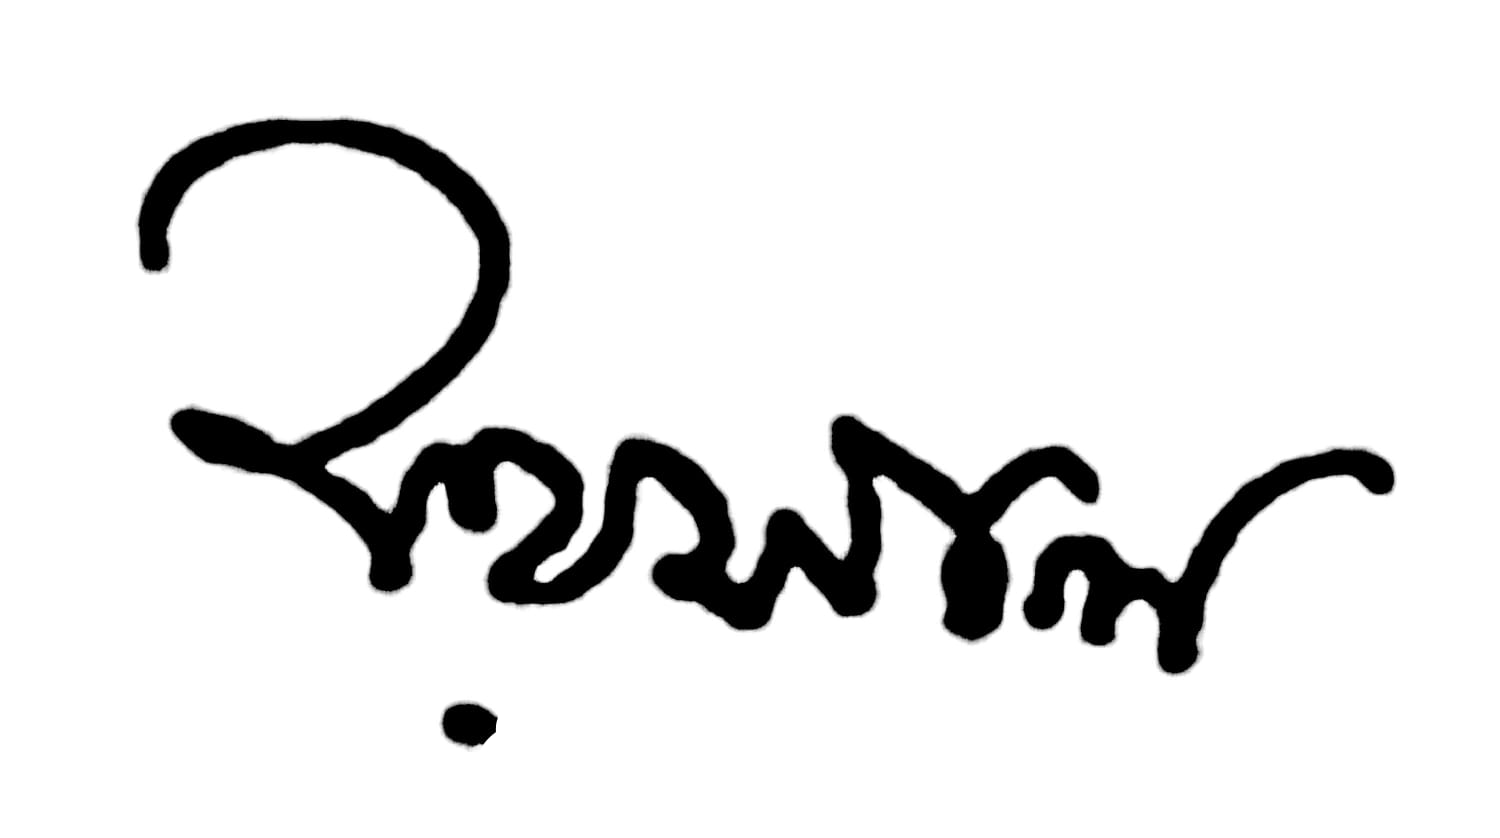
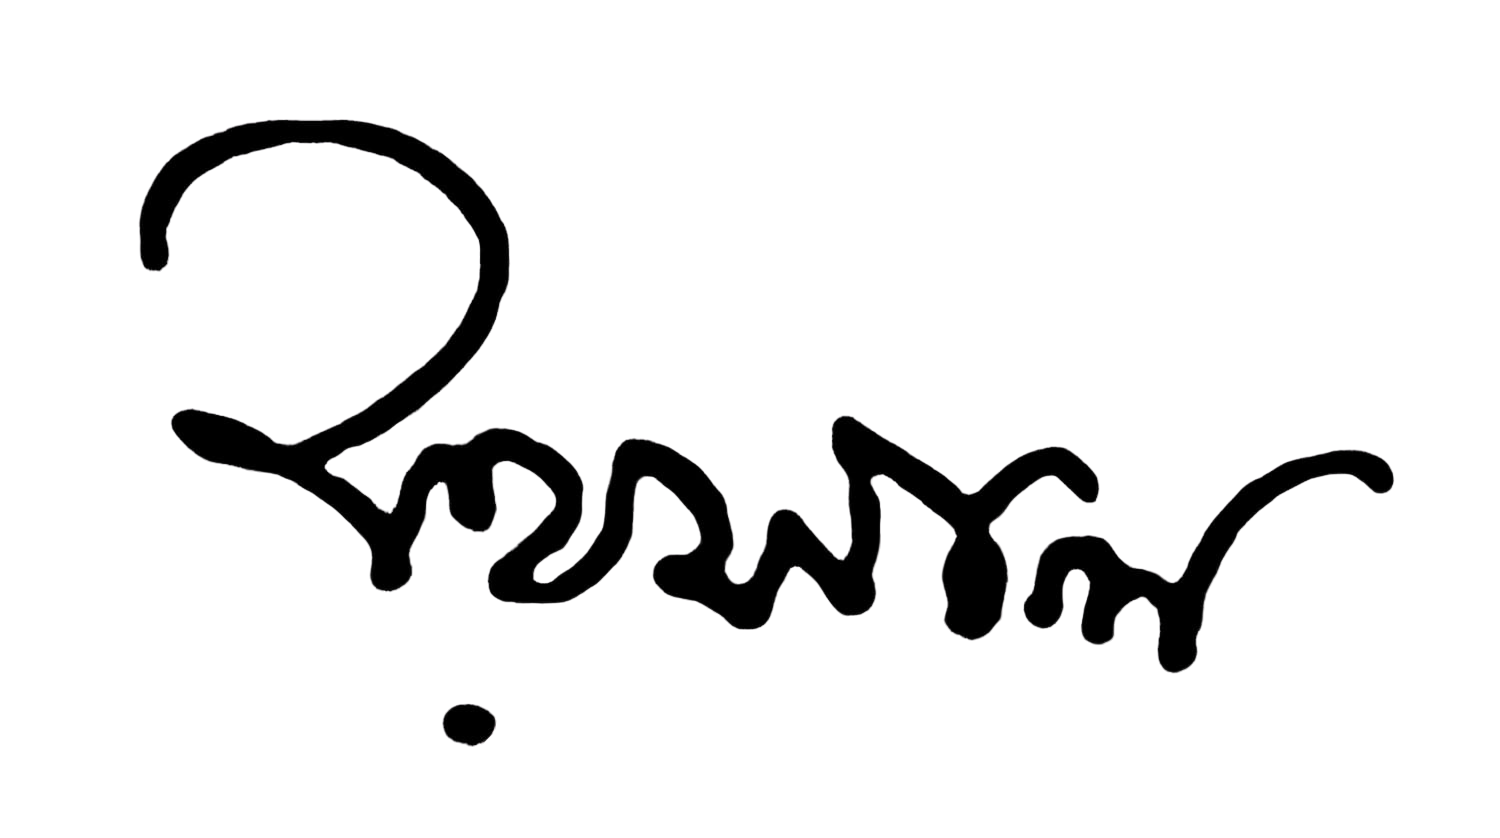
fix: react to print added for prit

diff --git a/src/app/globals.css b/src/app/globals.css
@@ -5,24 +5,6 @@ body {
   print-color-adjust: exact !important;
 }
 
-/* Table styles */
-table {
-  width: 100% !important;
-  border-collapse: collapse !important;
-}
-
-th {
-  background-color: #15803d !important;
-  color: white !important;
-}
-
-td,
-th {
-  border: 1px solid #000 !important;
-  padding: 8px !important;
-  text-align: center !important;
-}
-
 /*  student marksheet print css start  */
 
 @font-face {
@@ -32,128 +14,73 @@ th {
   font-style: normal;
 }
 
-/* @page {
+/* // student marksheet print css start  */
+
+.signature {
+  display: none;
+}
+
+@media print {
+  @page {
     size: A4;
+    margin: 10mm 20mm;
+  }
+  .result-container {
+    width: 100%;
+    height: 100vh;
+    position: relative;
+  }
+  /* print header area */
+  .print-header {
+    margin-bottom: 2rem;
+    border-bottom: 1px solid #000;
+    padding-bottom: 4px;
+    position: relative;
+  }
+
+  .print-header-logo {
+    position: absolute;
+    left: 60px;
+    top: 0;
+  }
+
+  .print-header-logo img {
+    width: 75px;
+    height: 75px;
+  }
+
+  .print-header-content {
+    text-align: center;
+    padding-left: 120px;
+    padding-right: 100px;
+  }
+
+  .print-header h1 {
+    font-size: 24px;
+    font-weight: bold;
+    margin: 1px 0;
+  }
+
+  .print-header h3 {
+    font-size: 18px;
+    font-weight: normal;
     margin: 0;
-  } */
+  }
 
-/* @media print {
-    html, body {
-      margin: 40px;
-      font-family: 'Kalpurush', sans-serif;
-      -webkit-print-color-adjust: exact !important;
-      print-color-adjust: exact !important;
-    }
-
-    
-    /* Student Info Grid Layout */
-/* .student-info-container {
-      display: grid;
-      grid-template-columns: repeat(2, 1fr);
-      gap: 0;
-    } */
-/* 
-    .student-info-item {
-      border-bottom: 1px solid #000;
-    } */
-/* 
-    .student-info-item:last-child {
-      grid-column: span 2;
-    }
-
-    .student-info-row {
-      display: grid;
-      grid-template-columns: 100px 1fr;
-      align-items: center;
-      padding: 8px 0;
-    }
-
-    .print-header {
-      margin-bottom: 2rem;
-      border-bottom: 1px solid #000;
-      padding-bottom: 4px;
-      position: relative;
-    }
-
-    .print-header-logo {
-      position: absolute;
-      left: 83px;
-      top: 0;
-    }
-
-    .print-header-logo img {
-      width: 75px;
-      height: 75px;
-    }
-
-    .print-header-content {
-      text-align: center;
-      padding-left: 120px;
-      padding-right: 100px;
-    }
-
-    .print-header h1 {
-      font-size: 24px;
-      font-weight: bold;
-      margin: 1px 0;
-    }
-
-    .print-header h3 {
-      font-size: 18px;
-      font-weight: normal;
-      margin: 0;
-    }
-
-    .print-header p {
-      font-size: 14px;
-      margin: 0;
-    }
-
-    table {
-      width: 100%;
-      border-collapse: collapse;
-      margin-top: 20px;
-    }
-
-    th {
-      background-color: #15803d !important;
-      color: white !important;
-      padding: 8px;
-      text-align: center;
-      border: 1px solid #000;
-    }
-
-    td {
-      padding: 8px;
-      text-align: center;
-      border: 1px solid #000;
-    }
-
-    .no-print {
-      display: none !important;
-    }
-
-    .print-only {
-      display: block !important;
-    }
-
-    /* Signature styles */
-/* .signature {
-      position: absolute;
-      bottom: 80px;
-      right: 40px;
-      text-align: center;
-    }
-
-    .signature img {
-      width: 120px;
-      height: auto;
-      margin-bottom: 5px;
-    }
-
-    .signature-text {
-      font-size: 14px;
-      margin: 0;
-    } */
+  .print-header p {
+    font-size: 14px;
+    margin: 0;
+  }
+  /* print header area end */
+  .signature {
+    display: flex;
+    flex-direction: column;
+    justify-content: center;
+    align-items: center;
+    position: absolute;
+    bottom: 40px;
+    right: 40px;
+  }
+}
 
 /* // student marksheet print css end  */

diff --git a/src/components/ResultDisplay.tsx b/src/components/ResultDisplay.tsx
@@ -1,6 +1,8 @@
 import Image from 'next/image';
 import { useRef } from 'react';
 
+import '../app/globals.css';
+
 import { PrintButton } from './PrintButton';
 import { MarkSheet } from './result/MarkSheet';
 import { StudentInfo } from './result/StudentInfo';
@@ -16,8 +18,8 @@ export function ResultDisplay({ result, examType }: ResultDisplayProps) {
   const printRef = useRef<HTMLDivElement>(null);
 
   return (
-    <div ref={printRef} className='result-container text-sm'>
-      <div className='print-header print:block'>
+    <div ref={printRef} className='result-container text-sm relative'>
+      <div className='print-header hidden print:block'>
         <div className='print-header-logo'>
           <Image
             src='/images/logo.jpg'
@@ -34,7 +36,7 @@ export function ResultDisplay({ result, examType }: ResultDisplayProps) {
         </div>
       </div>
       <div>
-        <h1 className='exam-name hidden print:block text-xl font-bold text-center mb-1'>
+        <h1 className='exam-name hidden print:block text-xl font-bold text-center mb-3'>
           {examType}
         </h1>
         <h3 className='text-lg font-normal text-center mb-4 '>
@@ -43,15 +45,19 @@ export function ResultDisplay({ result, examType }: ResultDisplayProps) {
       </div>
       <StudentInfo result={result} />
       <MarkSheet result={result} />
-      <div className='signature  print:block'>
+      <div className='signature '>
         <Image
-          src='/images/sign.jpg'
+          src='/images/signature.jpg'
           alt='signature'
-          width={120}
+          width={80}
           height={60}
           priority
+          className='-rotate-[4deg] '
         />
-        <p className='signature-text'>পরীক্ষা নিয়ন্ত্রক</p>
+        <p className='signature-text border-b-[0.1px] mb-1 border-black'>
+          পরীক্ষা নিয়ন্ত্রক
+        </p>
+        <p>(মাওলানা ফয়সাল উমর ফারুক)</p>
       </div>
       <PrintButton printRef={printRef} />
     </div>

diff --git a/src/components/result/MarkSheet.tsx b/src/components/result/MarkSheet.tsx
@@ -5,10 +5,12 @@ import { StudentResult } from '@/types/student';
 export function MarkSheet({ result }: { result: StudentResult }) {
   return (
     <>
-      <h6 className='text-center text-xl font-normal mb-1 mark-sheet-title'>
-        প্রাপ্ত নম্বর
-      </h6>
-      <div className='overflow-x-auto rounded-md mark-sheet-container'>
+      <div className='flex justify-center items-center mb-3 mt-4'>
+        <h6 className='text-center text-xl font-normal mb-1 mark-sheet-title border-black border-b-[1.5px]'>
+          প্রাপ্ত নম্বর
+        </h6>
+      </div>
+      <div className='overflow-x-auto rounded-md mark-sheet-container '>
         <table className='w-full border-collapse mark-sheet-table'>
           <thead>
             <tr className='bg-green-700 text-white text-center mark-sheet-header'>

diff --git a/src/styles/globals.css b/src/styles/globals.css
@@ -114,46 +114,3 @@
     background-size: 0 2px, 100% 2px;
   }
 }
-
-@media print {
-  .print-header {
-    margin-bottom: 2rem;
-    border-bottom: 1px solid #000;
-    padding-bottom: 4px;
-    position: relative;
-  }
-
-  .print-header-logo {
-    position: absolute;
-    left: 83px;
-    top: 0;
-  }
-
-  .print-header-logo img {
-    width: 75px;
-    height: 75px;
-  }
-
-  .print-header-content {
-    text-align: center;
-    padding-left: 120px;
-    padding-right: 100px;
-  }
-
-  .print-header h1 {
-    font-size: 24px;
-    font-weight: bold;
-    margin: 1px 0;
-  }
-
-  .print-header h3 {
-    font-size: 18px;
-    font-weight: normal;
-    margin: 0;
-  }
-
-  .print-header p {
-    font-size: 14px;
-    margin: 0;
-  }
-}

diff --git a/src/components/result/StudentInfo.tsx b/src/components/result/StudentInfo.tsx
@@ -11,8 +11,8 @@ export function StudentInfo({ result }: StudentInfoProps) {
     <div className='grid grid-cols-2 gap-0 mb-6 student-info-container'>
       {/* First Column */}
       <div className='space-y-0'>
-        <InfoRow label='রোল' value={toBengaliNumber(result.rollNo)} />
-        <InfoRow label='নাম' value={result.name} />
+        <InfoRow label='রোল নং' value={toBengaliNumber(result.rollNo)} />
+        <InfoRow label='পরীক্ষার্থীর নাম' value={result.name} />
         <InfoRow label='জন্ম তারিখ' value={result.dateOfBirth} />
         <InfoRow label='পরীক্ষার্থীর ধরণ' value={result.examineeType} />
       </div>
